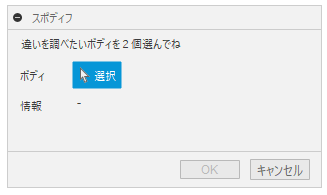
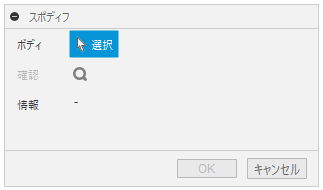
ver0.0.3 add pewview info

Changed region(s): [[0.0, 0.0, 0.9907, 1.0], [0.0619, 0.3421, 0.1548, 0.4211], [0.2167, 0.5263, 0.2477, 0.5526]]

diff --git a/SpoDiff/SpoDiff.py b/SpoDiff/SpoDiff.py
@@ -24,7 +24,9 @@ _cmdInfo = {
 
 _selBodiesIpt: core.SelectionCommandInput = None
 _txtBodiesInfo: core.TextBoxCommandInput = None
+_previewIpt: core.BoolValueCommandInput = None
 _spotFact: SpotDifferenceFactory = None
+
 
 def run(context):
     ui = None
@@ -73,7 +75,7 @@ def run(context):
             cmdDef
         )
 
-        cmdControl.isVisible = True             
+        cmdControl.isVisible = True
 
     except:
         if _ui:
@@ -100,13 +102,13 @@ class CommandCreatedHandler(core.CommandCreatedEventHandler):
             # inputs
             inputs: core.CommandInputs = cmd.commandInputs
 
-            inputs.addTextBoxCommandInput(
-                "txtId",
-                "",
-                "違いを調べたいボディを２個選んでね",
-                1,
-                True,
-            )
+            # inputs.addTextBoxCommandInput(
+            #     "txtId",
+            #     "",
+            #     "違いを調べたいボディを２個選んでね",
+            #     1,
+            #     True,
+            # )
 
             global _selBodiesIpt
             _selBodiesIpt = inputs.addSelectionInput(
@@ -116,6 +118,16 @@ class CommandCreatedHandler(core.CommandCreatedEventHandler):
             )
             _selBodiesIpt.addSelectionFilter(core.SelectionCommandInput.Bodies)
             _selBodiesIpt.setSelectionLimits(2,2)
+
+            global _previewIpt
+            _previewIpt = inputs.addBoolValueInput(
+                "previewIptId",
+                "確認",
+                False,
+                _cmdInfo["resources"],
+                False,
+            )
+            _previewIpt.isEnabled = False
 
             global _txtBodiesInfo
             _txtBodiesInfo = inputs.addTextBoxCommandInput(
@@ -146,20 +158,35 @@ class MyInputChangedHandler(core.InputChangedEventHandler):
         super().__init__()
     def notify(self, args: core.InputChangedEventArgs):
         global _selBodiesIpt
-        if not args.input == _selBodiesIpt: return
-
         global _txtBodiesInfo
-        if not _selBodiesIpt.selectionCount == 2:
-            _txtBodiesInfo.text = "-"
-            return
-
+        global _previewIpt
         global _spotFact
-        _spotFact = SpotDifferenceFactory(
-            _selBodiesIpt.selection(0).entity,
-            _selBodiesIpt.selection(1).entity,
-        )
-        
-        _txtBodiesInfo.text = _spotFact.get_bodies_info()
+
+        if args.input == _selBodiesIpt:
+            if not _selBodiesIpt.selectionCount == 2:
+                _txtBodiesInfo.text = "-"
+
+                _previewIpt.isEnabled = False
+            else:
+                _spotFact = SpotDifferenceFactory(
+                    _selBodiesIpt.selection(0).entity,
+                    _selBodiesIpt.selection(1).entity,
+                )
+                _txtBodiesInfo.text = _spotFact.get_bodies_info()
+
+                _previewIpt.isEnabled = True
+
+        if args.input == _previewIpt:
+            _txtBodiesInfo.text = _spotFact.get_diff_info()
+        #     if not _selBodiesIpt.selectionCount == 2:
+        #         _txtBodiesInfo.text = "-"
+        #     else:
+        #         global _spotFact
+        #         _spotFact = SpotDifferenceFactory(
+        #             _selBodiesIpt.selection(0).entity,
+        #             _selBodiesIpt.selection(1).entity,
+        #         )
+        #         _txtBodiesInfo.text = _spotFact.get_bodies_info()
 
 
 def stop(context):

diff --git a/SpoDiff/SpotDifferenceFactory.py b/SpoDiff/SpotDifferenceFactory.py
@@ -23,6 +23,7 @@ class SpotDifferenceFactory():
         # fusion.Component.toOcc = to_occurrenc
         # fusion.Component.activate = comp_activate
 
+
     def get_bodies_info(self) -> str:
 
         msg = "Bodyが２個設定されていません"
@@ -39,19 +40,32 @@ class SpotDifferenceFactory():
             self.ui.messageBox(msg)
             return ""
 
-        # コンポーネントの位置
-        mat1a, mat2a, mat2_1 = get_matrix(
-            self.bodyA,
-            self.bodyB,
+        return "\n".join(
+            [
+                f"{self.bodyA.name} - {self.bodyA.faces.count}枚",
+                f"{self.bodyB.name} - {self.bodyB.faces.count}枚",
+            ]
         )
 
-        # 異なる面取得
-        self.diffFaces1, self.diffFaces2 = get_unmatched_faces(
-            self.bodyA,
-            self.bodyB,
-            mat2_1,
-            0.001
-        )
+
+    def get_diff_info(self) -> str:
+
+        msg = "Bodyが２個設定されていません"
+        if not self.bodyA:
+            self.ui.messageBox(msg)
+            return ""
+
+        if not self.bodyB:
+            self.ui.messageBox(msg)
+            return ""
+
+        msg = "２個のボディが同じです"
+        if self.bodyA == self.bodyB:
+            self.ui.messageBox(msg)
+            return ""
+
+        if not self.diffFaces1 or not self.diffFaces2:
+            self.set_diff_faces()
 
         hit1 = len(self.diffFaces1)
         hit2 = len(self.diffFaces2)
@@ -75,11 +89,30 @@ class SpotDifferenceFactory():
             return msg
 
 
+    def set_diff_faces(self):
+        # コンポーネントの位置
+        mat1a, mat2a, mat2_1 = get_matrix(
+            self.bodyA,
+            self.bodyB,
+        )
+
+        # 異なる面取得
+        self.diffFaces1, self.diffFaces2 = get_unmatched_faces(
+            self.bodyA,
+            self.bodyB,
+            mat2_1,
+            0.001
+        )
+
+
     def create_diff_faces(self):
         """
         差分面作成
         """
         try:
+            if not self.diffFaces1 or not self.diffFaces2:
+                self.set_diff_faces()
+
             colorRed: core.Appearance = get_color_appearance(
                 "spoRed", [255,0,0]
             )

diff --git a/README.md b/README.md
@@ -20,9 +20,14 @@
 
 ![Alt text](./resources_readme/dialog.png)
 
-二つのボディを選択します。少し時間がかかりますが、情報欄に選択したボディの違いの情報を表示します。
+二つのボディを選択します。情報欄にはそれぞれのボディの面の数を表示します。
 
 ![Alt text](./resources_readme/selected.png)
+
+二つのボディを選択すると"確認"ボタンが押せるようになります。押す事で情報欄に選択したボディの違いの情報を表示しますが、少し時間がかかります。
+（この作業は必ず必要なものではありません）
+
+![Alt text](./resources_readme/checked.png)
 
 OKボタンを押す事で、異なる面のみを抜き出します。
 
